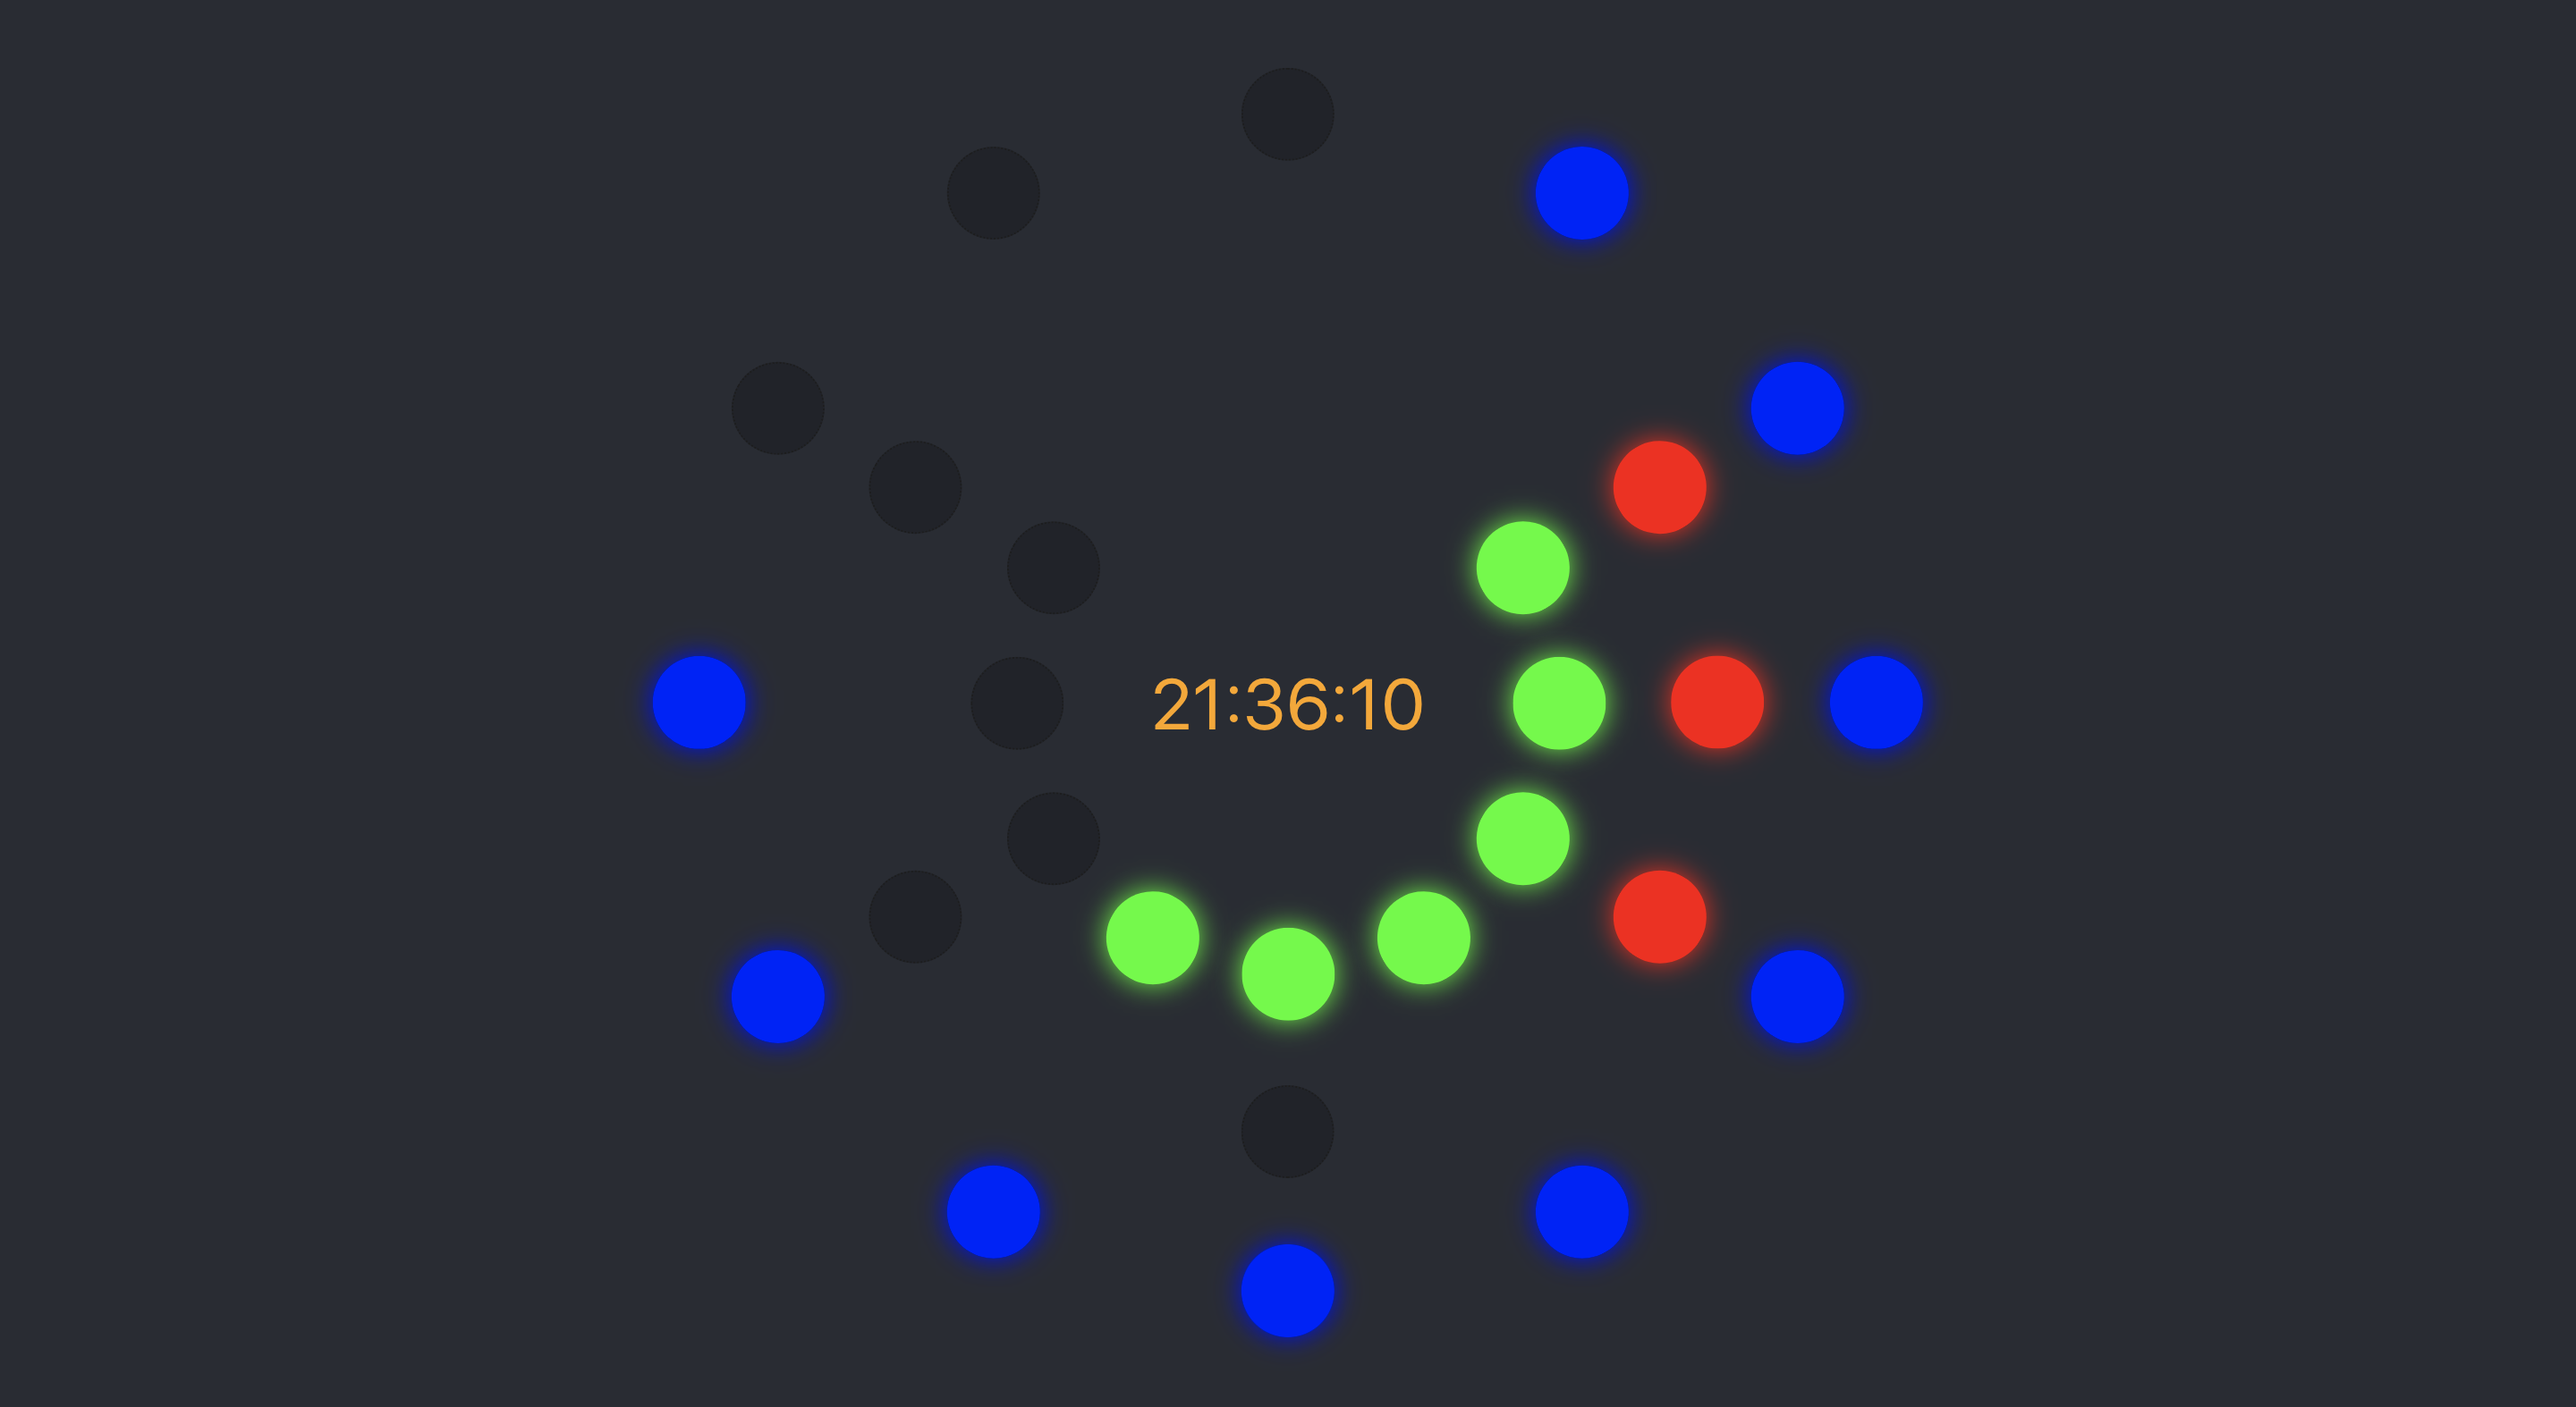
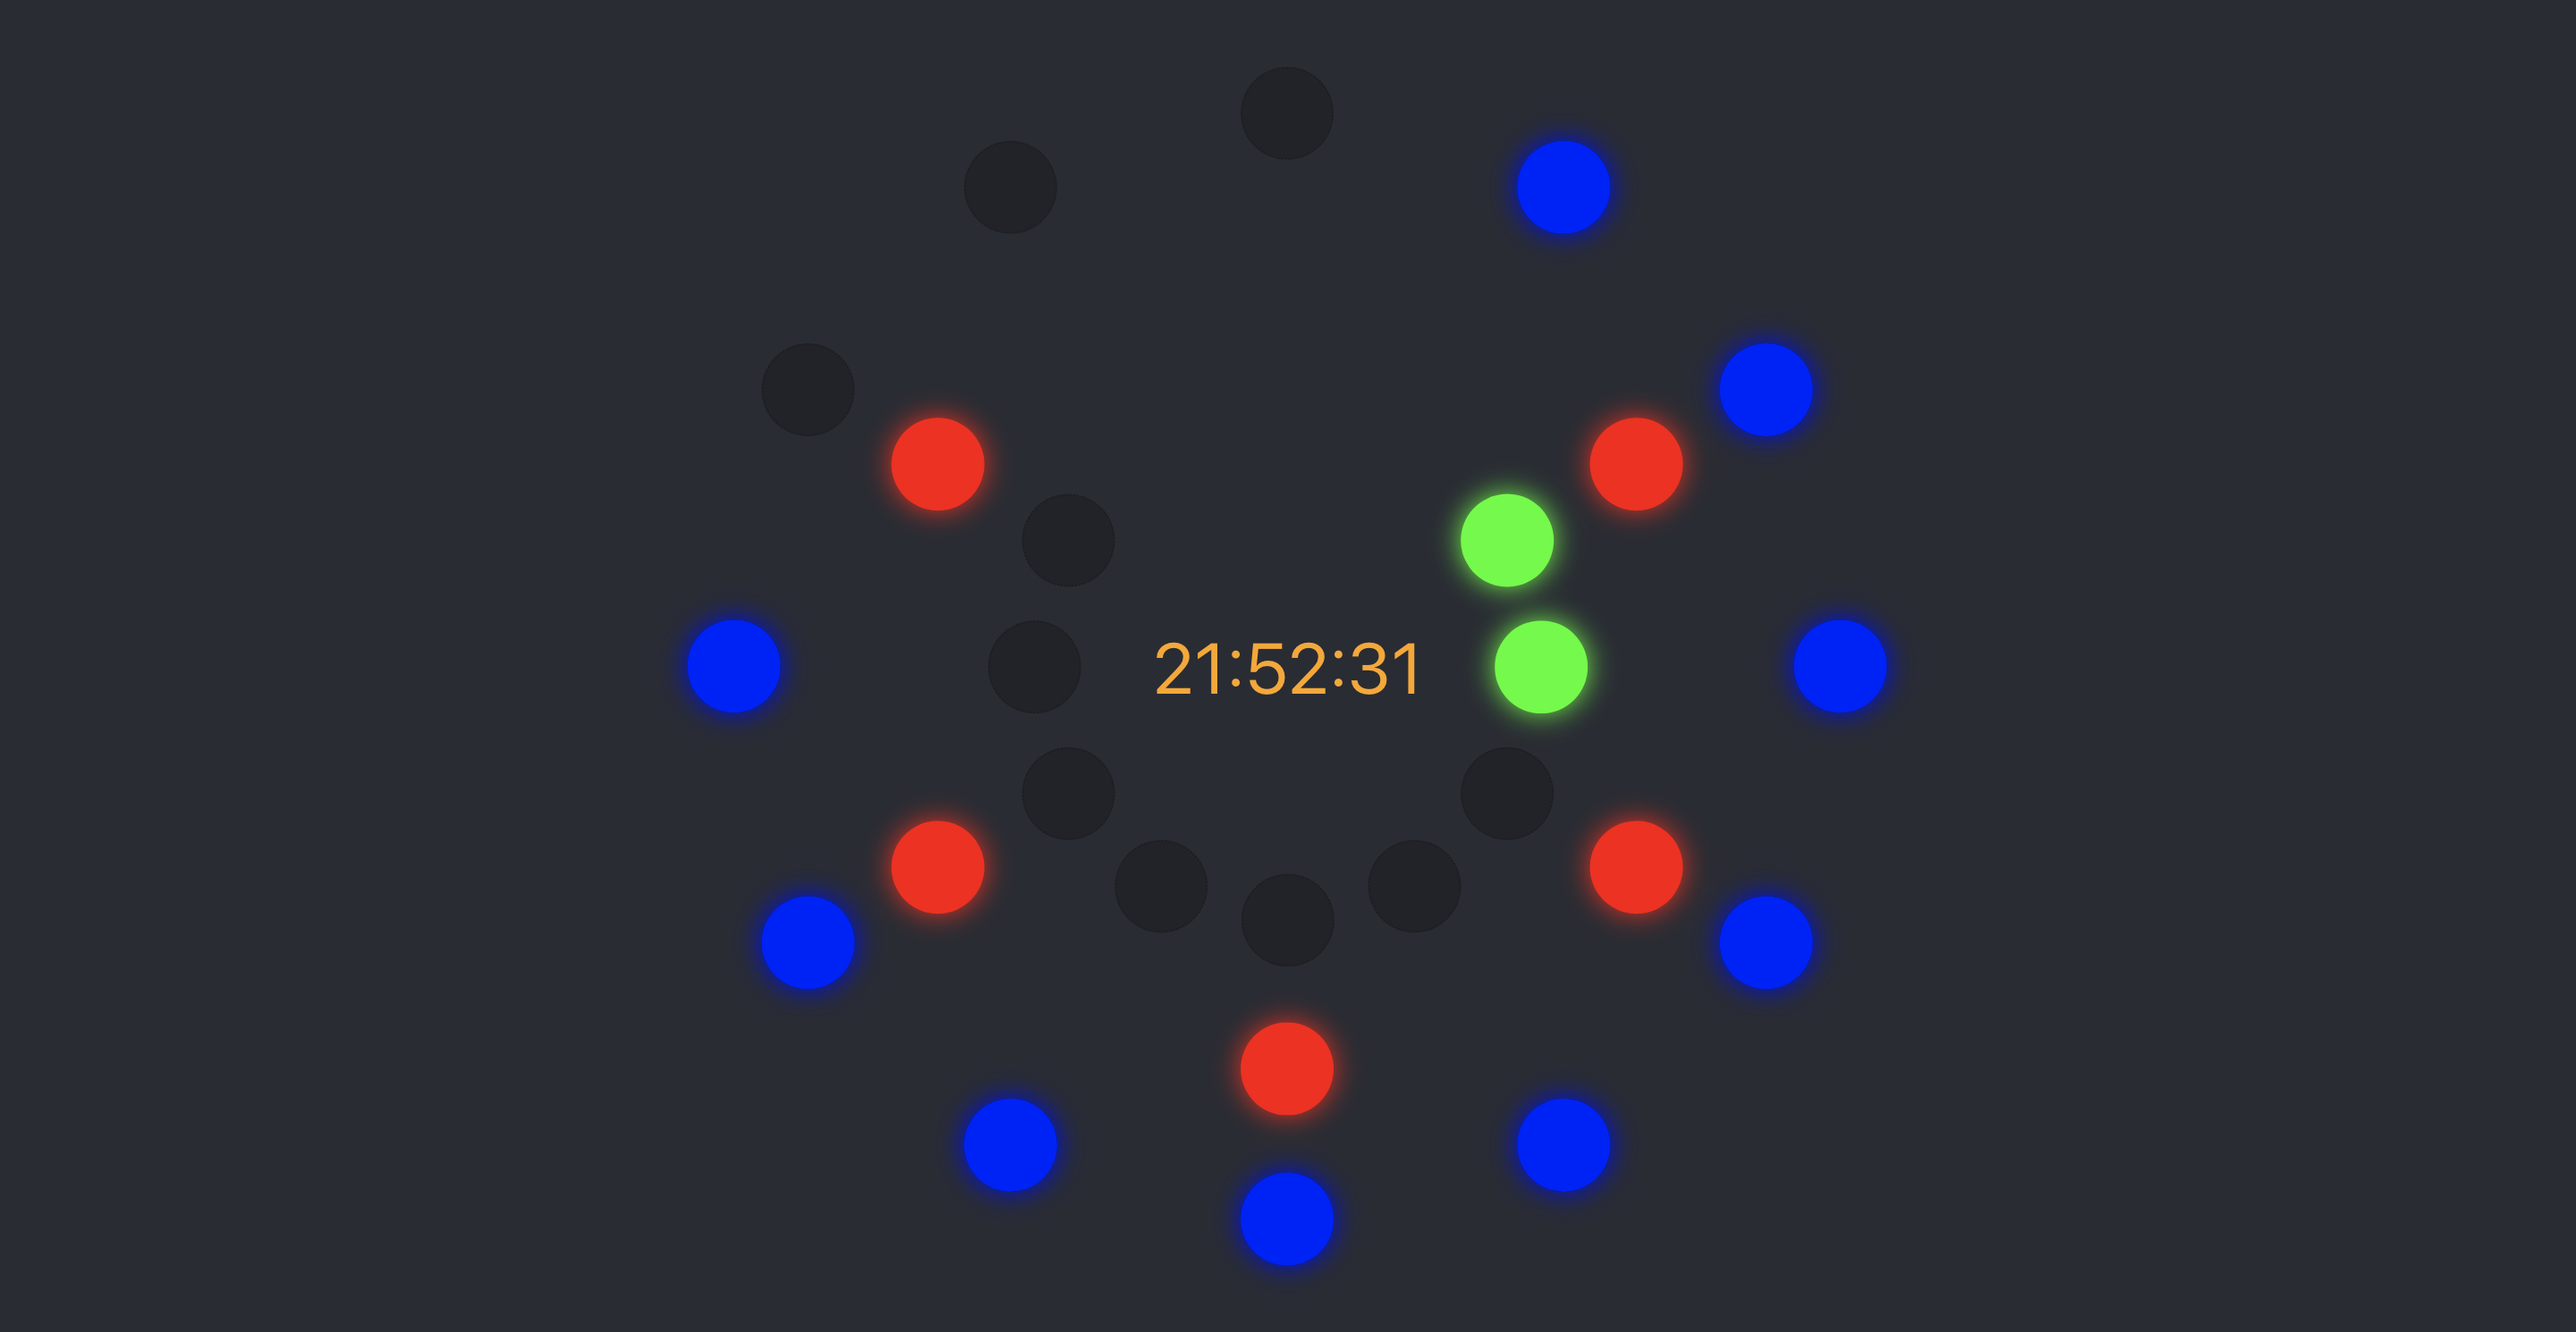
Fix to decs deg spacing

diff --git a/src/Components/MagicBlackTimeBox.js b/src/Components/MagicBlackTimeBox.js
@@ -78,7 +78,7 @@ class MagicBlackTimeBox extends Component {
 
     var decsCircles = [];
     for (let i = 0; i < clockDecs; i++) {
-      decsCircles.push(<Circle text={i+1} row='rowDecs' color='decs' position={`pos${i}`}/>);
+      decsCircles.push(<Circle text={i+1} row='rowDecs' color='decs' position={`pos${i*2}`}/>);
     }
 
     var minsCircles = [];
